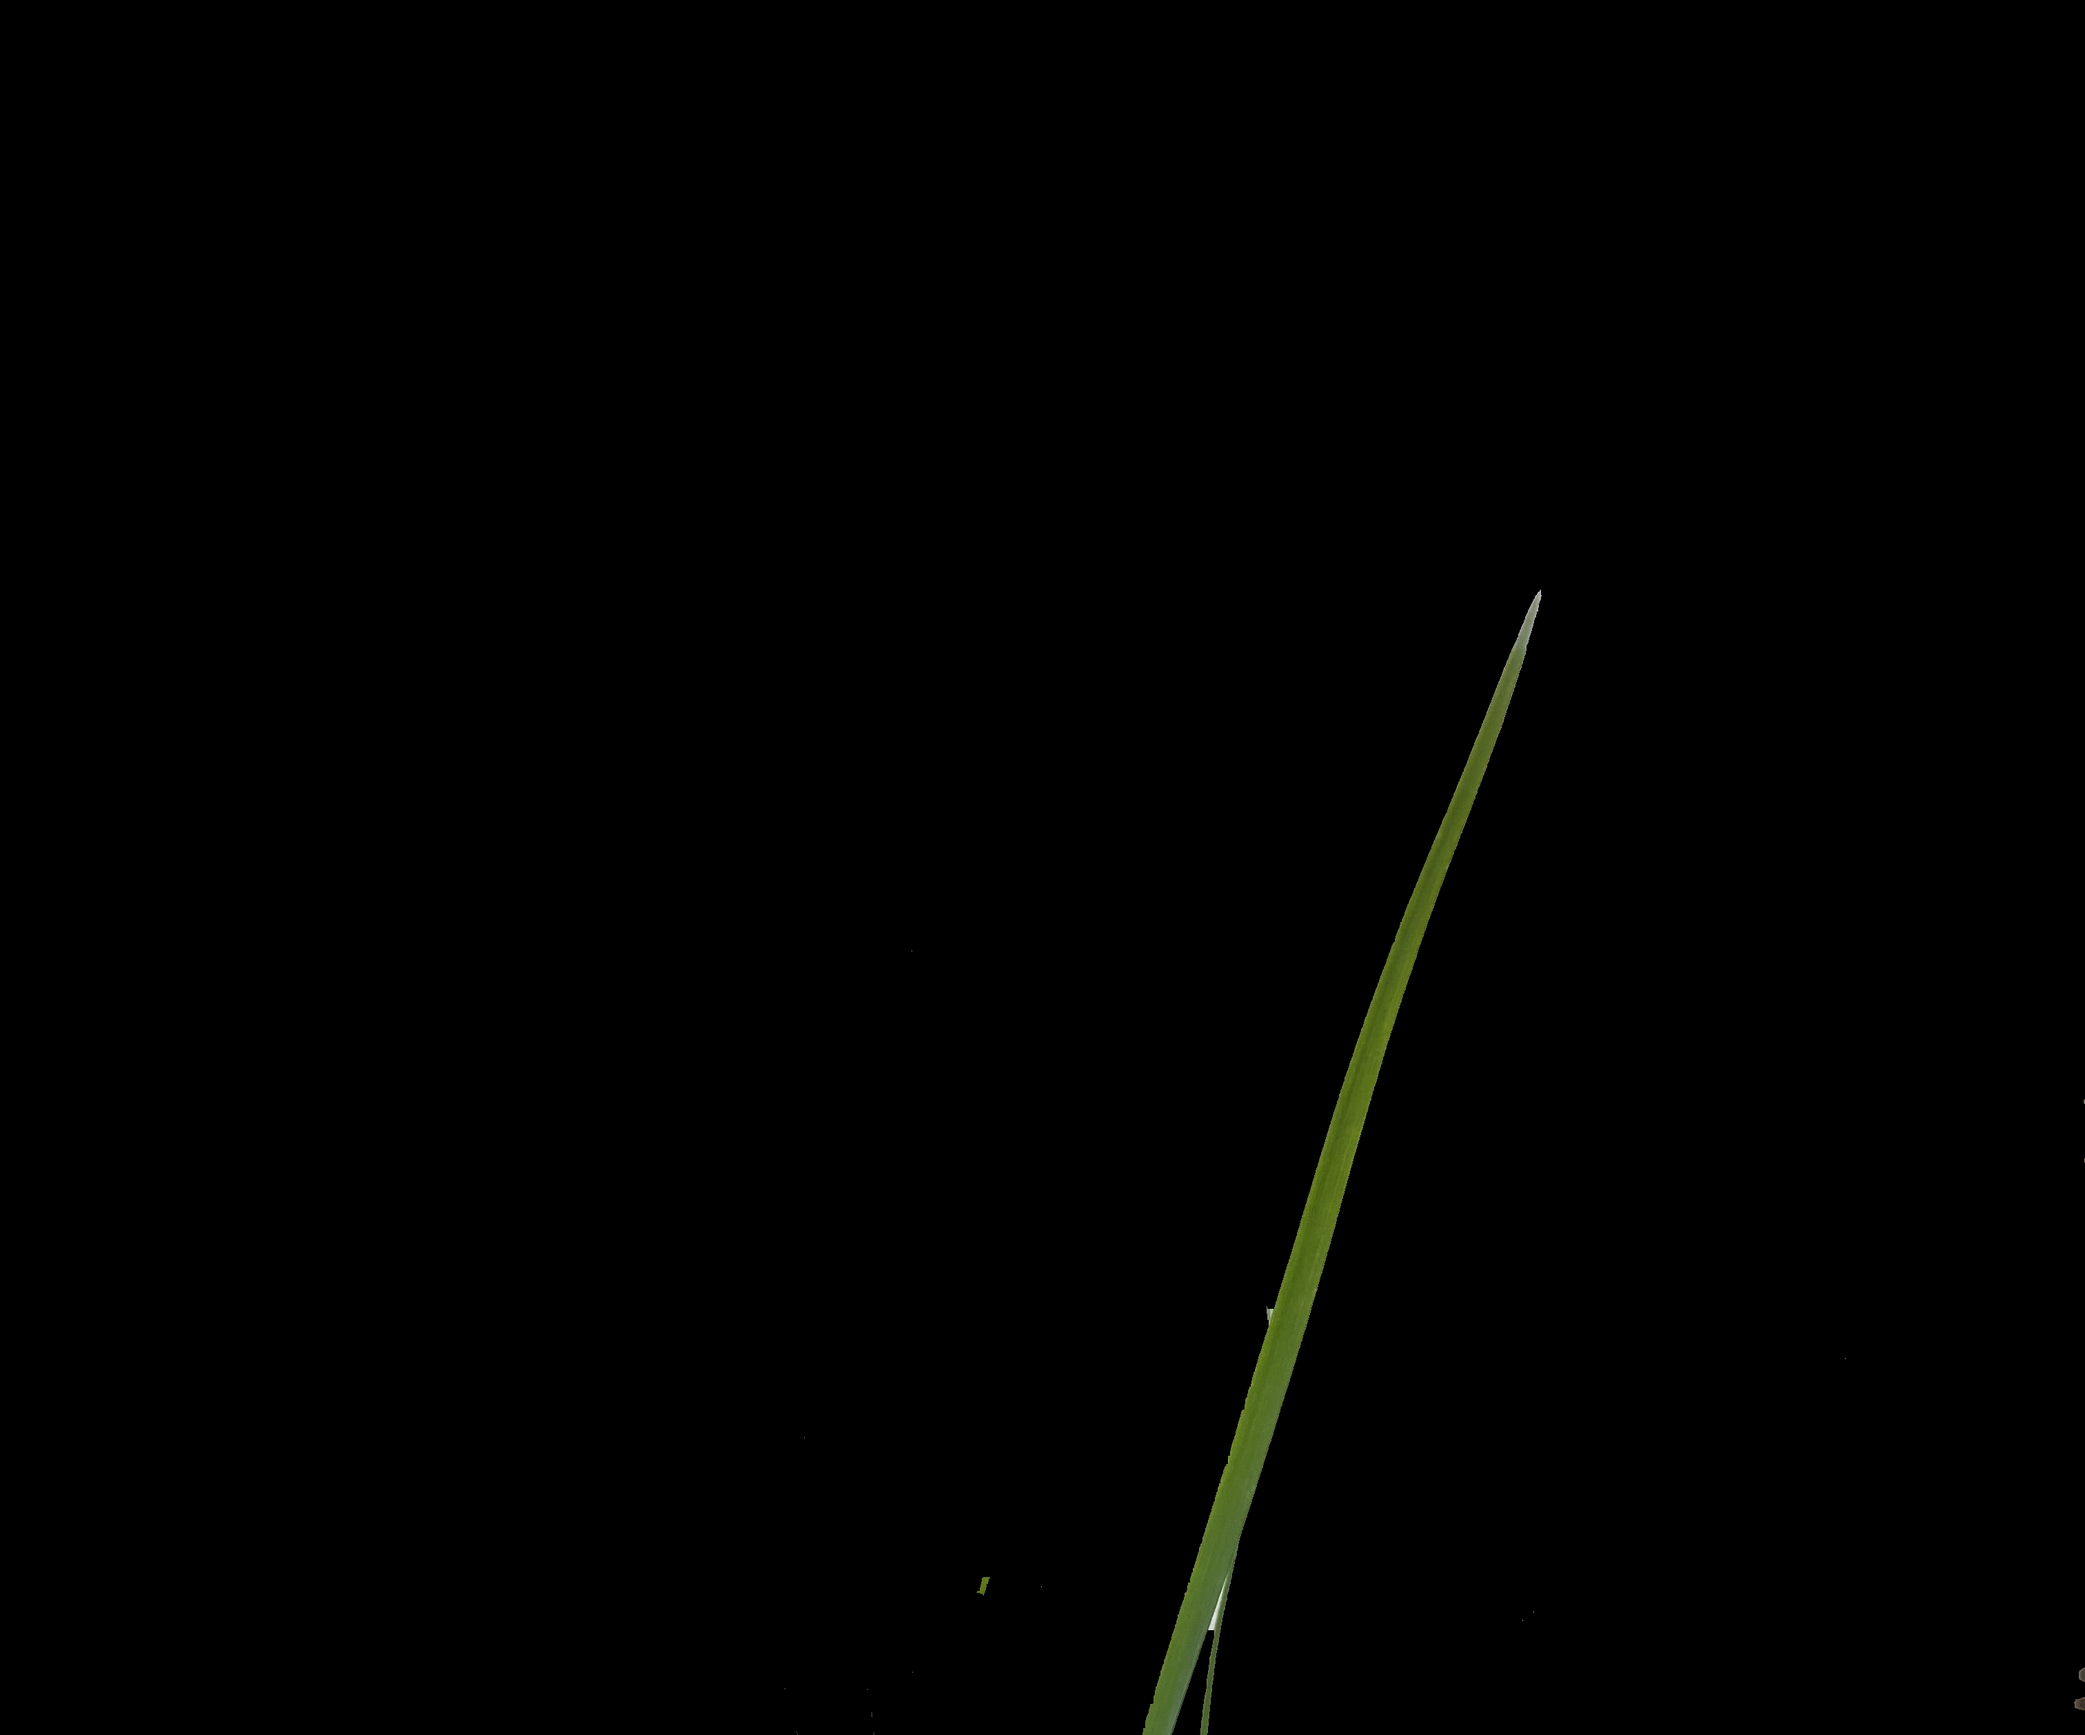
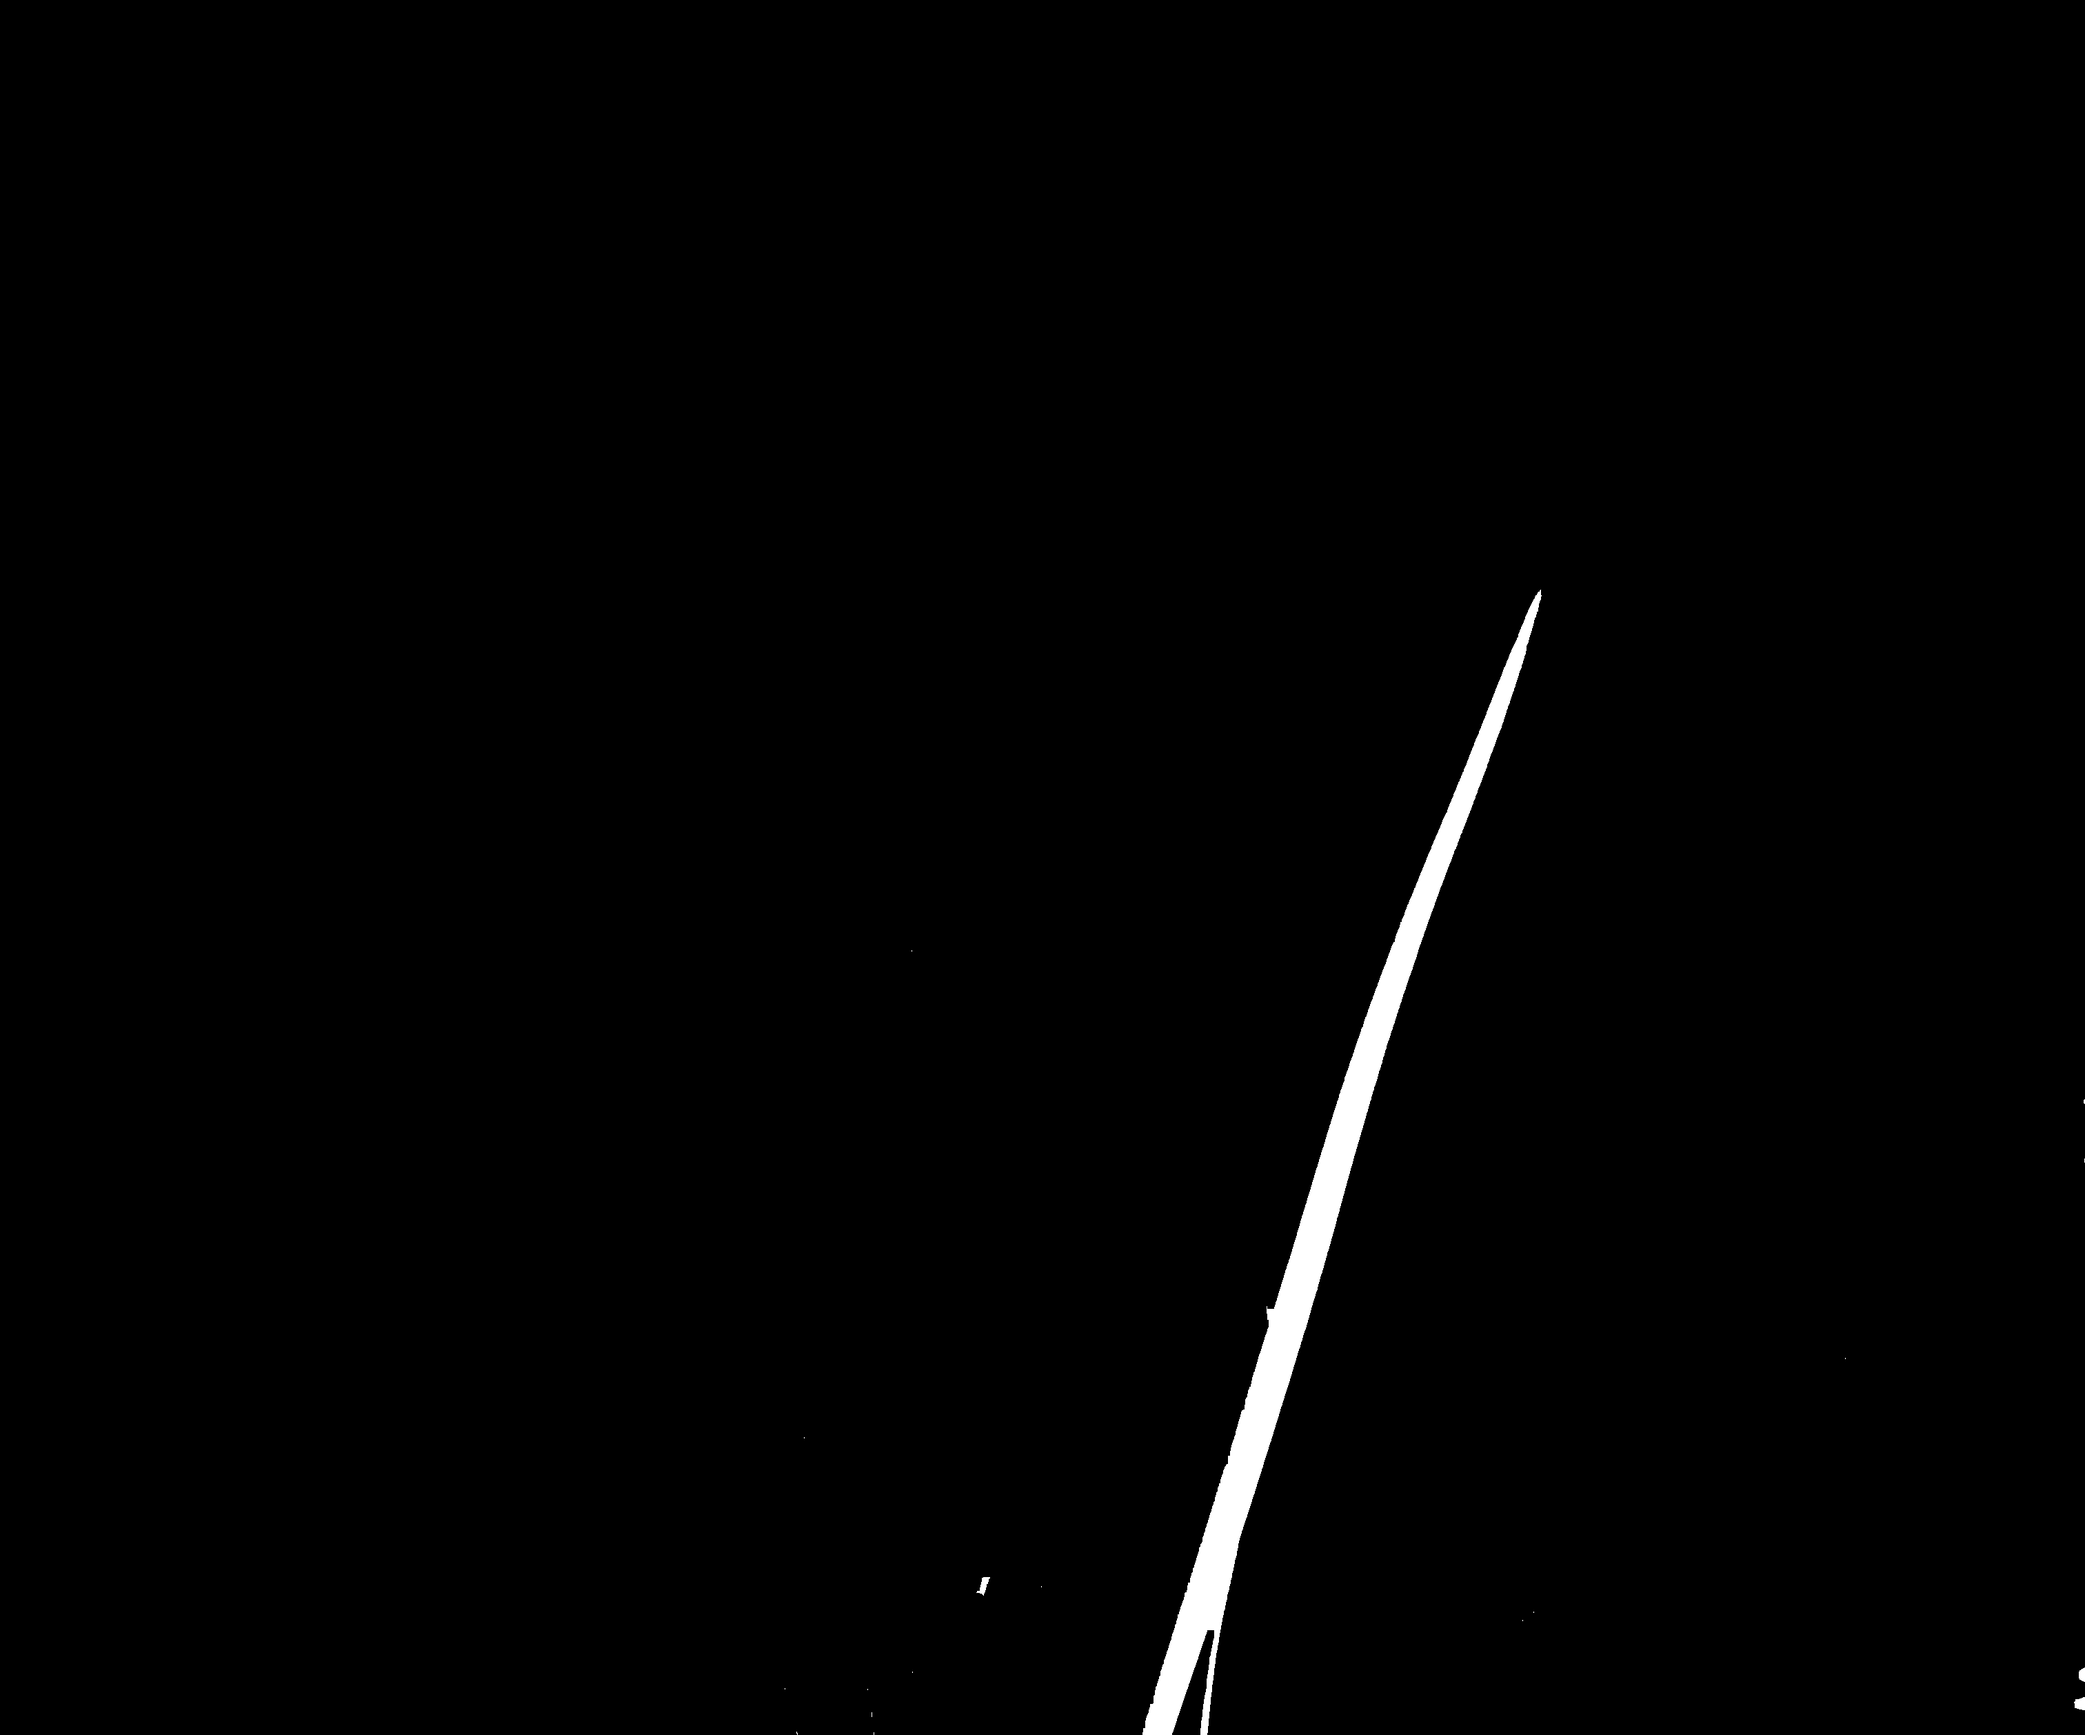
image registration with original images & renamed keeper-images

Changed region(s): [[0.5284, 0.341, 0.746, 1.0], [0.9947, 0.961, 1.0, 0.9921]]

diff --git a/src/main.m b/src/main.m
@@ -41,23 +41,27 @@ classdef main
             numberOfBlobs = size(blobMeasurements, 1);
             
             allBlobOrientations = [blobMeasurements.Orientation];
-            allowableOrientIndexes = (allBlobOrientations > 70);
-            keeperIndexes = find(allowableOrientIndexes);
-            keeperBlobsImage = ismember(labeledImage, keeperIndexes);
+            allowableIndexes = (allBlobOrientations > 65);
+            keeperIndexes = find(allowableIndexes);
+            keeperMask = ismember(labeledImage, keeperIndexes);
+            keeperMask = bwmorph(keeperMask, 'bridge');
+            
+            subplot(2,2,4);
+            imshow(keeperMask);
 
-%             boundingBox = regionprops(keeperBlobsImage, 'BoundingBox'); % [left_x, top_y, width, height]
+%             boundingBox = regionprops(keeperMask, 'BoundingBox'); % [left_x, top_y, width, height]
 %             coords = boundingBox.BoundingBox;
             
-            keeperBlobsImage = repmat(keeperBlobsImage,1,1,3);
+            keeperBlobsImage = repmat(keeperMask,1,1,3);
             
-            keeperMask = image; % Simply a copy at first.
-            keeperMask(~keeperBlobsImage) = 0;  % Set all non-keeper pixels to zero.
+            segmentedImage = image; % Simply a copy at first.
+            segmentedImage(~keeperBlobsImage) = 0;  % Set all non-keeper pixels to zero.
             
 %             keeperMask = imcrop(keeperMask, [coords(1), coords(2), coords(1)+coords(3), coords(2)+coords(4)]);
-            
-            %bBox = regionprops(keeperMask, 'BoundingBox').BoundingBox(1:4);
-            %points = bbox2points(bBox);
-            %keeperMask = imcrop(keeperMask, points);
+
+%             bBox = regionprops(keeperMask, 'BoundingBox').BoundingBox;
+%             points = bbox2points(bBox);
+%             keeperMask = imcrop(keeperMask, points);
             
             subplot(2,2,4);
             imshow(keeperMask);
@@ -79,13 +83,14 @@ classdef main
 %  
 %             subplot(2,2,4);
 %             imshow(labeloverlay(image,skel,'Transparency',0, 'Colormap', 'hot'));
-            
-            
-%% IMAGE REGISTRATION - versuch
-
+%             
+%             
+% % IMAGE REGISTRATION - versuch
+% 
+%             fixedOriginal = skel;
 %             fixed = uint8(255 * skel);
-%             moving = imread("../assets/segment.png");
-%             moving = rgb2gray(moving);
+%             movingOriginal = imread("../assets/segment.png");
+%             moving = rgb2gray(movingOriginal);
 % %             moving(moving ~= 0) = 1;
 % %             moving = uint8(255 * moving);
 %             
@@ -100,11 +105,17 @@ classdef main
 %             %metric = registration.metric.MattesMutualInformation;
 %             %metric = registration.metric.MeanSquares;
 %             
+%             tform = imregtform(moving, fixed, 'translation', optimizer, metric);
 %             % 'rigid', 'similarity', 'translation' or 'affine'
 %             registered = imregister(moving, fixed, 'translation', optimizer, metric);
 %             figure;
 %             imshowpair(registered, fixed);
-             
+%             
+%             registeredOriginal = imwarp(movingOriginal,tform,'OutputView',imref2d(size(fixed)));
+%             fusedOriginals = imfuse(registeredOriginal, fixedOriginal, 'blend');
+%             figure;
+%             imshow(fusedOriginals);
+%              
         end
     end
 end
